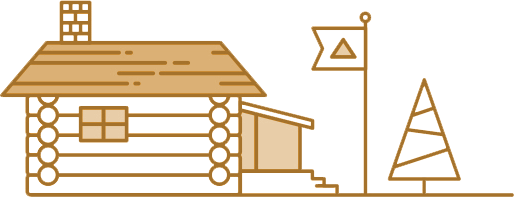
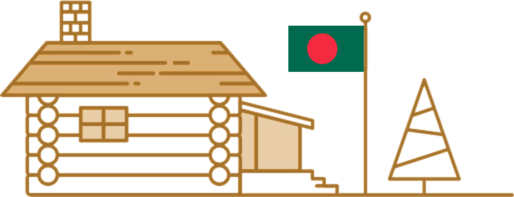
Add flag and increase font size

diff --git a/index.html b/index.html
@@ -31,11 +31,11 @@
                 <div class="col-sm-12 overflow">
                    <div class="social-icons pull-right">
                         <ul class="nav nav-pills">
+							<li><a href="http://www.linkedin.com/in/fahimtahmidchowdhury"><i class="fa fa-linkedin"></i></a></li>
                             <li><a href="https://www.facebook.com/fahim.t.chowdhury"><i class="fa fa-facebook"></i></a></li>
                             <!--<li><a href=""><i class="fa fa-twitter"></i></a></li>-->
                             <!--<li><a href=""><i class="fa fa-google-plus"></i></a></li>-->
                             <!--<li><a href=""><i class="fa fa-dribbble"></i></a></li>-->
-                            <li><a href="http://www.linkedin.com/in/fahimtahmidchowdhury"><i class="fa fa-linkedin"></i></a></li>
                         </ul>
                     </div> 
                 </div>
@@ -59,7 +59,7 @@
                 <div class="collapse navbar-collapse">
                     <ul class="nav navbar-nav navbar-right">
                         <li class="active"><a href="index.html">Home</a></li>                       
-                        <li><a href="Resume_Fahim.pdf">Resume</a></li>                    
+                        <li><a href="Resume_Fahim.pdf">Resume</a></li>						
                     </ul>
                 </div>
             </div>
@@ -71,7 +71,7 @@
         <div class="container">
             <div class="main-slider">
                 <div class="slide-text">
-                    <h1>I am a Software Engineer</h1>
+                    <h1>I am a <b>Software Engineer</b></h1>
                     <p>I want to satisfy my thirst for innovation and add values to the society while building up my career in research
 assisted by my engineering acumen</p>
                 </div>

diff --git a/css/main.css b/css/main.css
@@ -15,7 +15,7 @@
     background: #fff;
     font-family: 'Lato', sans-serif;
     font-weight: 300;
-    font-size: 14px;
+    font-size: 18px;
     line-height: 22px;
     color: #000;
   }
@@ -258,7 +258,7 @@
 
 #header .navbar-nav.navbar-right >li a {
   color: #000;
-  font-size: 12px;
+  font-size: 18px;
   padding: 20px;
   text-transform: uppercase;
   font-weight: 300;
